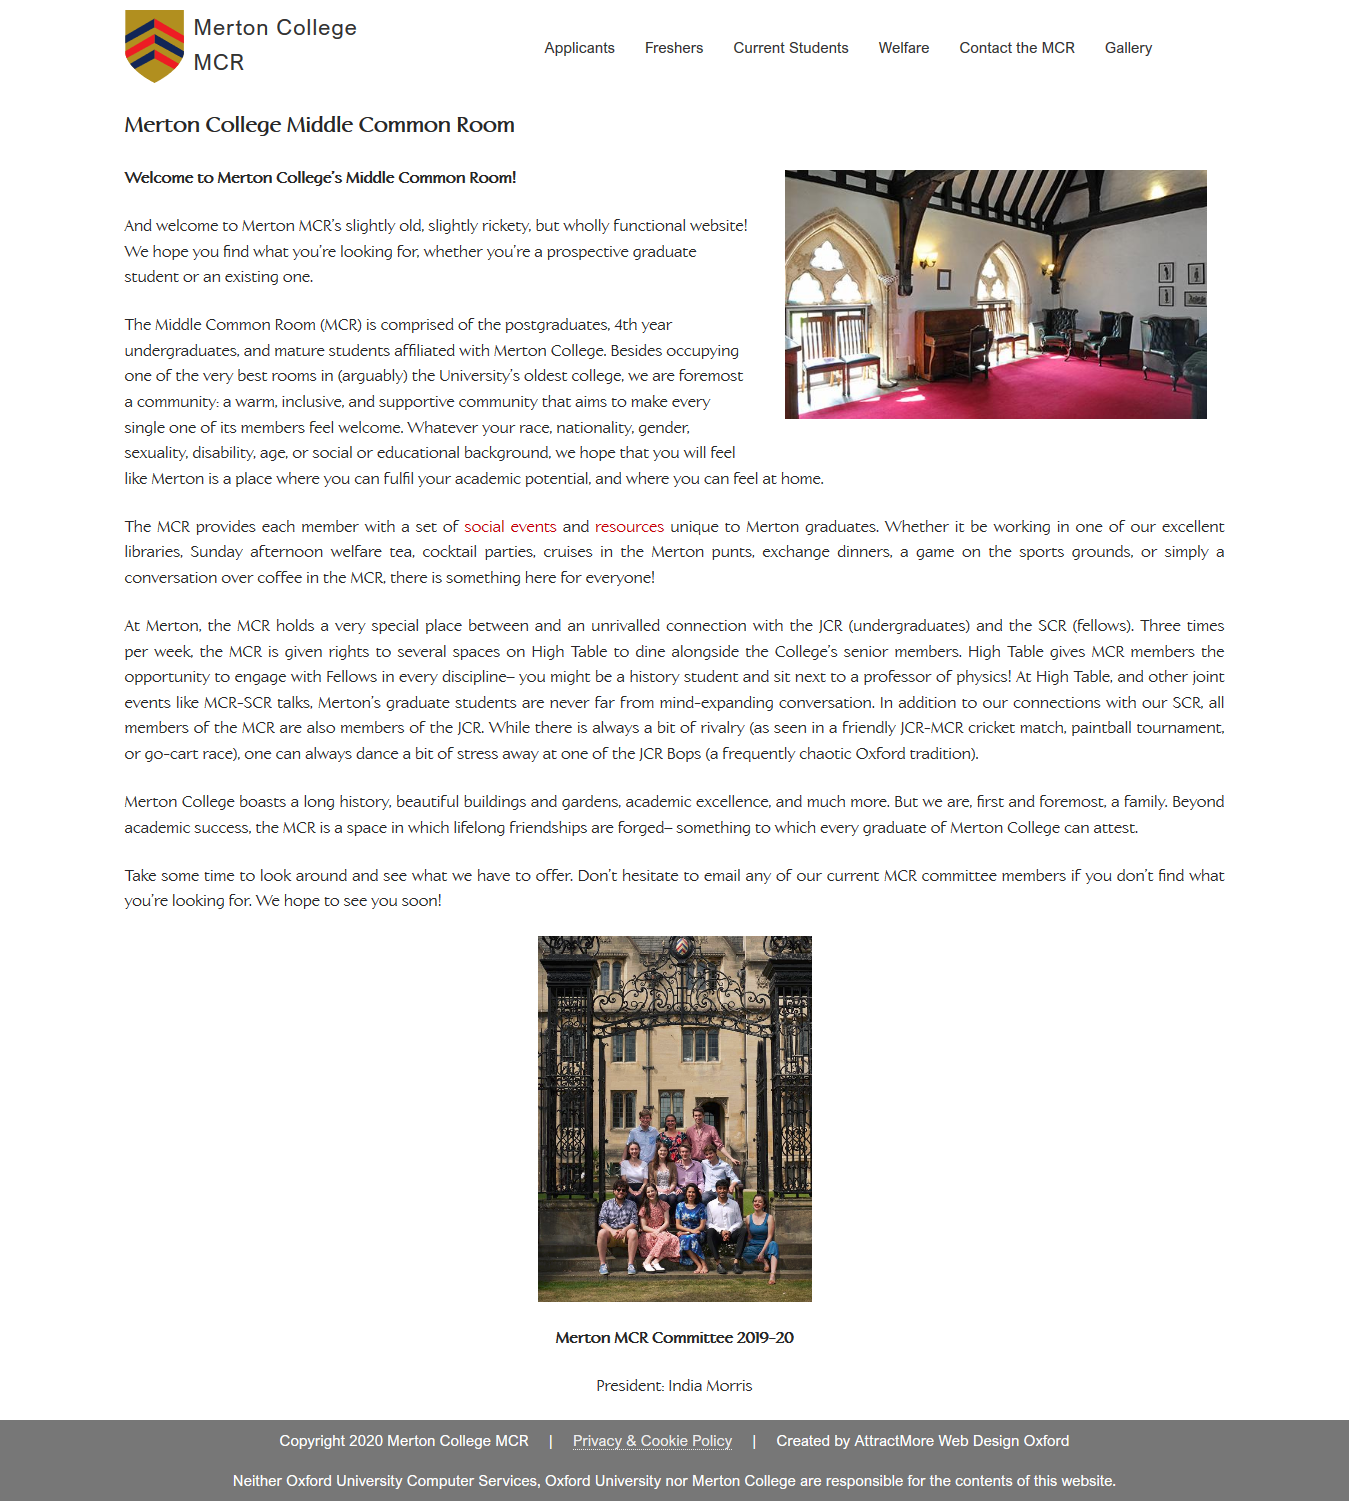
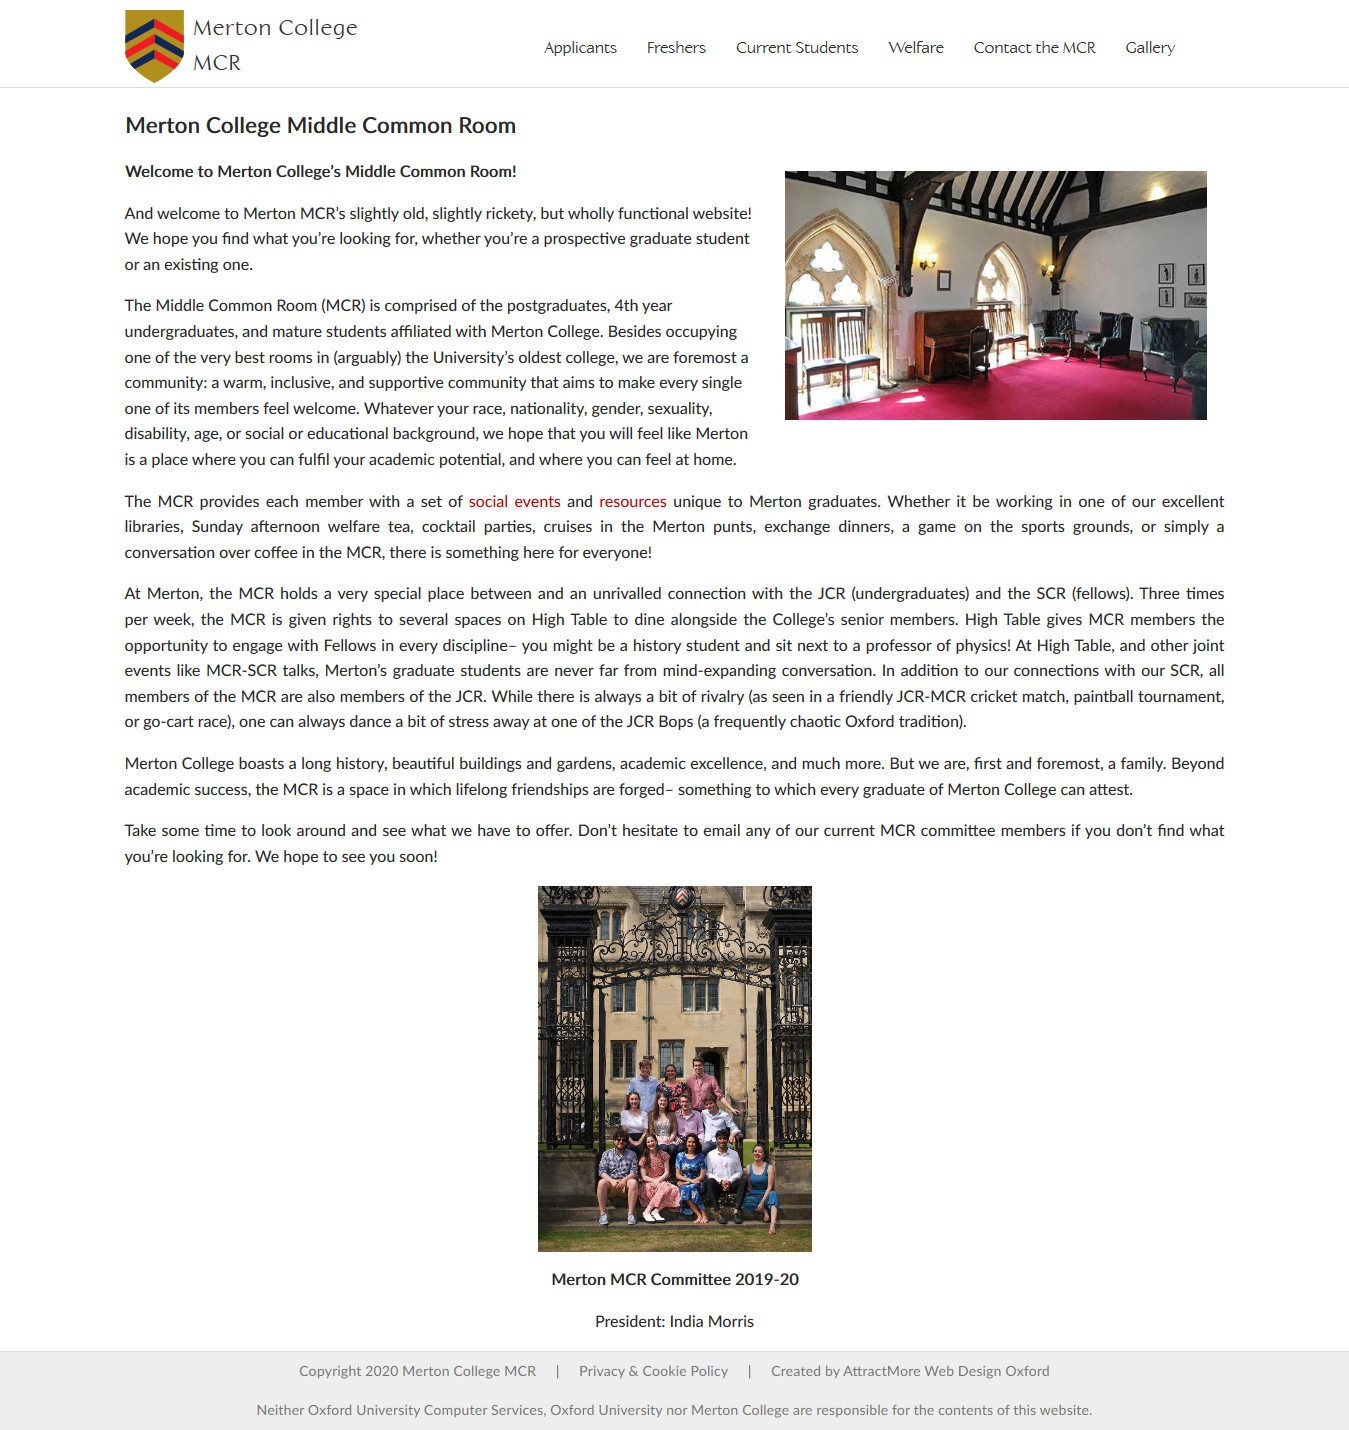
Design improvements

diff --git a/merton.css b/merton.css
@@ -5,20 +5,33 @@
 }
 
 @font-face {
-	font-family: "Arial Nova";
-	src: url("//db.onlinewebfonts.com/t/5f2f5d8473b0d45446e98b585d90d23e.eot");
-	src: url("//db.onlinewebfonts.com/t/5f2f5d8473b0d45446e98b585d90d23e.eot?#iefix") format("embedded-opentype"), url("//db.onlinewebfonts.com/t/5f2f5d8473b0d45446e98b585d90d23e.woff2") format("woff2"), url("//db.onlinewebfonts.com/t/5f2f5d8473b0d45446e98b585d90d23e.woff") format("woff"), url("//db.onlinewebfonts.com/t/5f2f5d8473b0d45446e98b585d90d23e.ttf") format("truetype"), url("//db.onlinewebfonts.com/t/5f2f5d8473b0d45446e98b585d90d23e.svg#Arial Nova") format("svg");
+	font-family: "Lato Medium";
+	src: url("//db.onlinewebfonts.com/t/a2b67a66a2c10e9d33ad123a89885f97.eot");
+	src: url("//db.onlinewebfonts.com/t/a2b67a66a2c10e9d33ad123a89885f97.eot?#iefix") format("embedded-opentype"), url("//db.onlinewebfonts.com/t/a2b67a66a2c10e9d33ad123a89885f97.woff2") format("woff2"), url("//db.onlinewebfonts.com/t/a2b67a66a2c10e9d33ad123a89885f97.woff") format("woff"), url("//db.onlinewebfonts.com/t/a2b67a66a2c10e9d33ad123a89885f97.ttf") format("truetype"), url("//db.onlinewebfonts.com/t/a2b67a66a2c10e9d33ad123a89885f97.svg#Lato Medium") format("svg");
 }
 
-body {
-	min-width: initial;
-	max-width: initial;
+#maincontainer,
+#footer,
+font {
+	font-family: "Lato Medium", Arial, Helvetica, sans-serif;
+}
+
+#header {
+	font-family: "ApertoW04-Regular"
+}
+
+p, ul, ol, dl, address, table, blockquote, fieldset {
+    margin-bottom: 1em;
 }
 
 #maincontainer {
 	min-width: 960px;
 	max-width: 1100px;
-	font-family: "ApertoW04-Regular"
+}
+
+body {
+	min-width: initial;
+	max-width: initial;
 }
 
 #header {
@@ -38,19 +51,9 @@ ul#nav li.backLava {
 	height: 0px;
 }
 
-font {
-	font-family: "ApertoW04-Regular";
-}
-
 a {
 	font-weight: initial !important;
 	/* Fix header font and others.*/
-}
-
-#footer,
-#header {
-	font-family: "Helvetica Neue", "Arial Nova", Arial, Helvetica, sans-serif;
-	font-size: 0.95em;
 }
 
 a {
@@ -114,7 +117,18 @@ a.button:hover {
 }
 
 #footer {
-	background-color: #777;
+	background-color: #eee;
+	color: rgba(0,0,0,.5);
+	border-top: 1px solid #ddd;
+}
+
+#footer a {
+	color: rgba(0,0,0,.5);
+	border: initial;
+}
+
+#footer a:hover {
+	color: #636363;
 }
 
 #mainbody .date {
@@ -144,11 +158,22 @@ ul#nav li a:hover {
 	padding: 5px;
 }
 
-#sidemenu ul h3 {
-	text-align: center;
-	font-weight: normal;
-}
-
 #sidemenu ul i {
 	font-style: normal;
+}
+
+#sidemenu ul h3 {
+	padding: 0 10px;
+	/*text-align: center;
+	font-weight: normal;
+	border-bottom: 1px solid #c4c4c4;
+	border-top: 1px solid #c4c4c4;*/
+}
+
+#sidemenu li {
+    border-bottom: none;
+}
+
+#sidemenu li a {
+  padding-left: 0 !important; /* disabled moving on click*/
 }

diff --git a/README.md b/README.md
@@ -2,7 +2,7 @@
 
 This is a proposal for a new layout for the MCR website.
 
-The design of the current website is horribly out of fashion, which I want to change.
+The design of the current website is horribly out of fashion, am shame!
 
 **Disclaimer:** This proposal has not been endorsed or certified by Oxford University, Merton College, or Merton College MCR.
 
